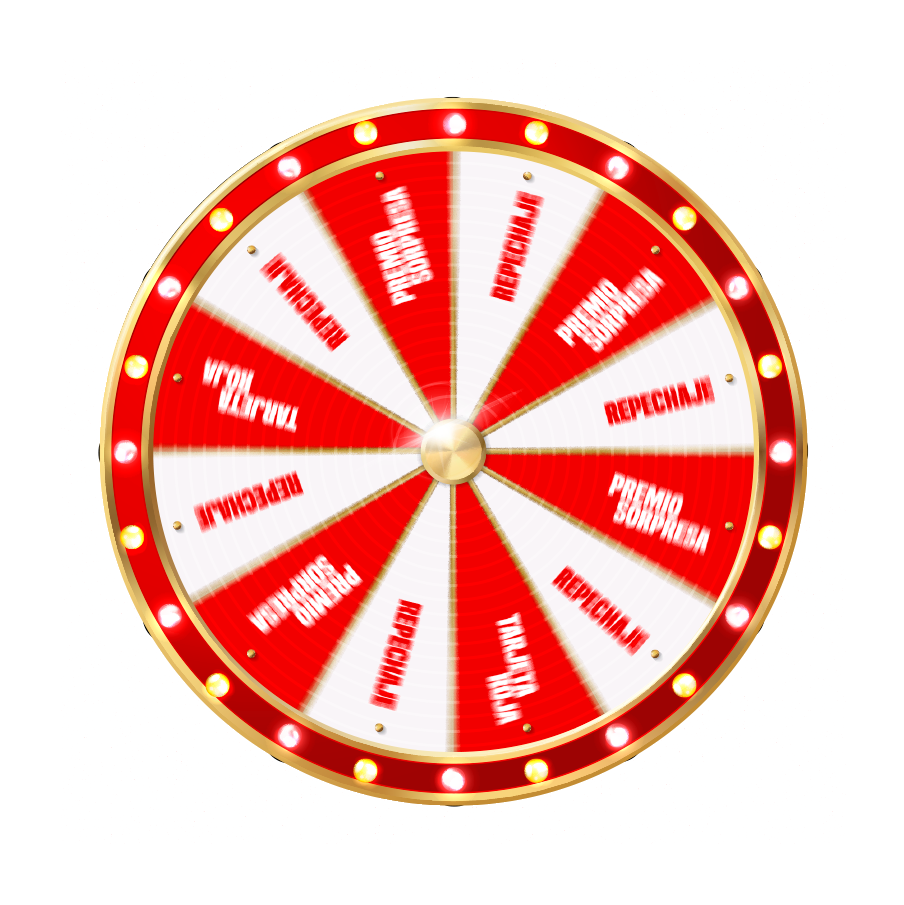
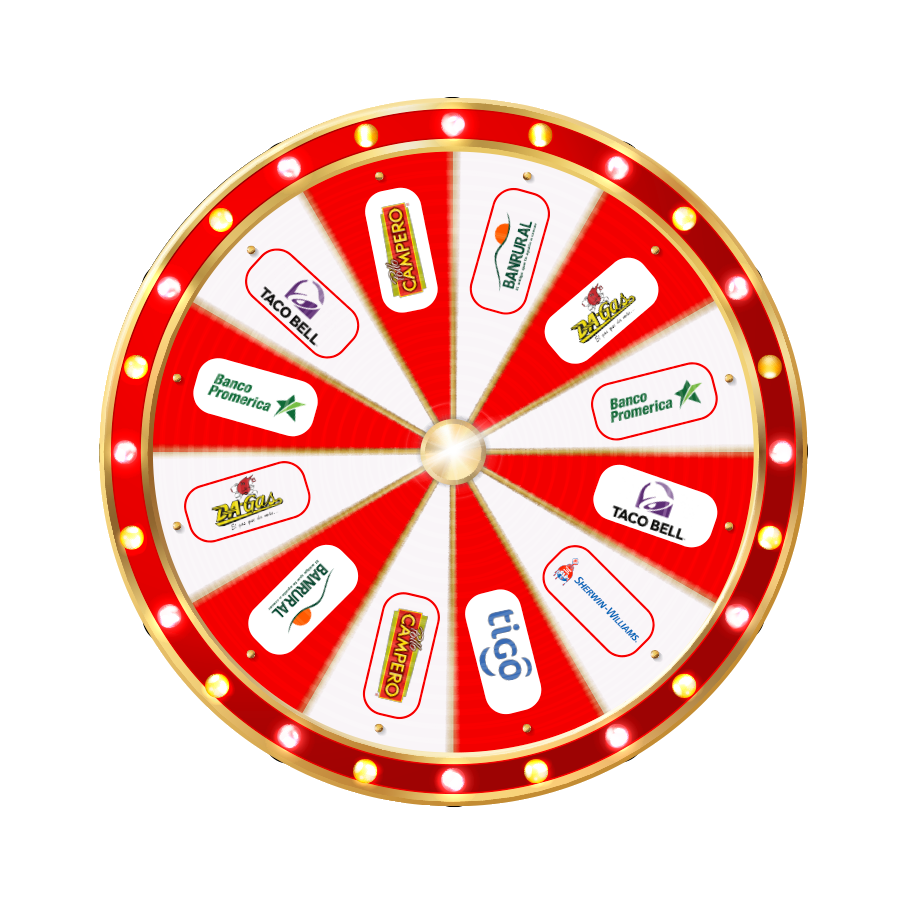
ruletas con patrocinadores actualizadas, se arreglo el error de ortografia en condiciones

diff --git a/src/app/components/condiciones/condiciones.component.html b/src/app/components/condiciones/condiciones.component.html
@@ -19,7 +19,7 @@
             <p>1. Promoción valida del 18 de noviembre al 25 de diciembre de 2022 <span class="texto-amarillo">O HASTA AGOTAR EXISTENCIAS DE PREMIOS</span>.</p>
             <p>2. Únicamente se permite 1 participación en la ruleta por comprobante/voucher.</p>
             <p>3. Los premios instantáneos, así como sus indicaciones para canje, serán enviados al correo electrónico
-                registrado. En cas de error 5B no podrá modificar las direcciones de correo electrónico ingresadas por
+                registrado. En caso de error 5B no podrá modificar las direcciones de correo electrónico ingresadas por
                 el participante, por lo que debes de asegurarte de ingresar la información correcta al momento de tu
                 registro.</p>
             <p><span class="texto-amarillo">4. Premios:</span></p>

diff --git a/src/assets/css/styles.css b/src/assets/css/styles.css
@@ -1338,3 +1338,7 @@ input:-webkit-autofill {
     margin: 0;
 }
 }
+
+simple-notifications{
+  display: none;
+}
